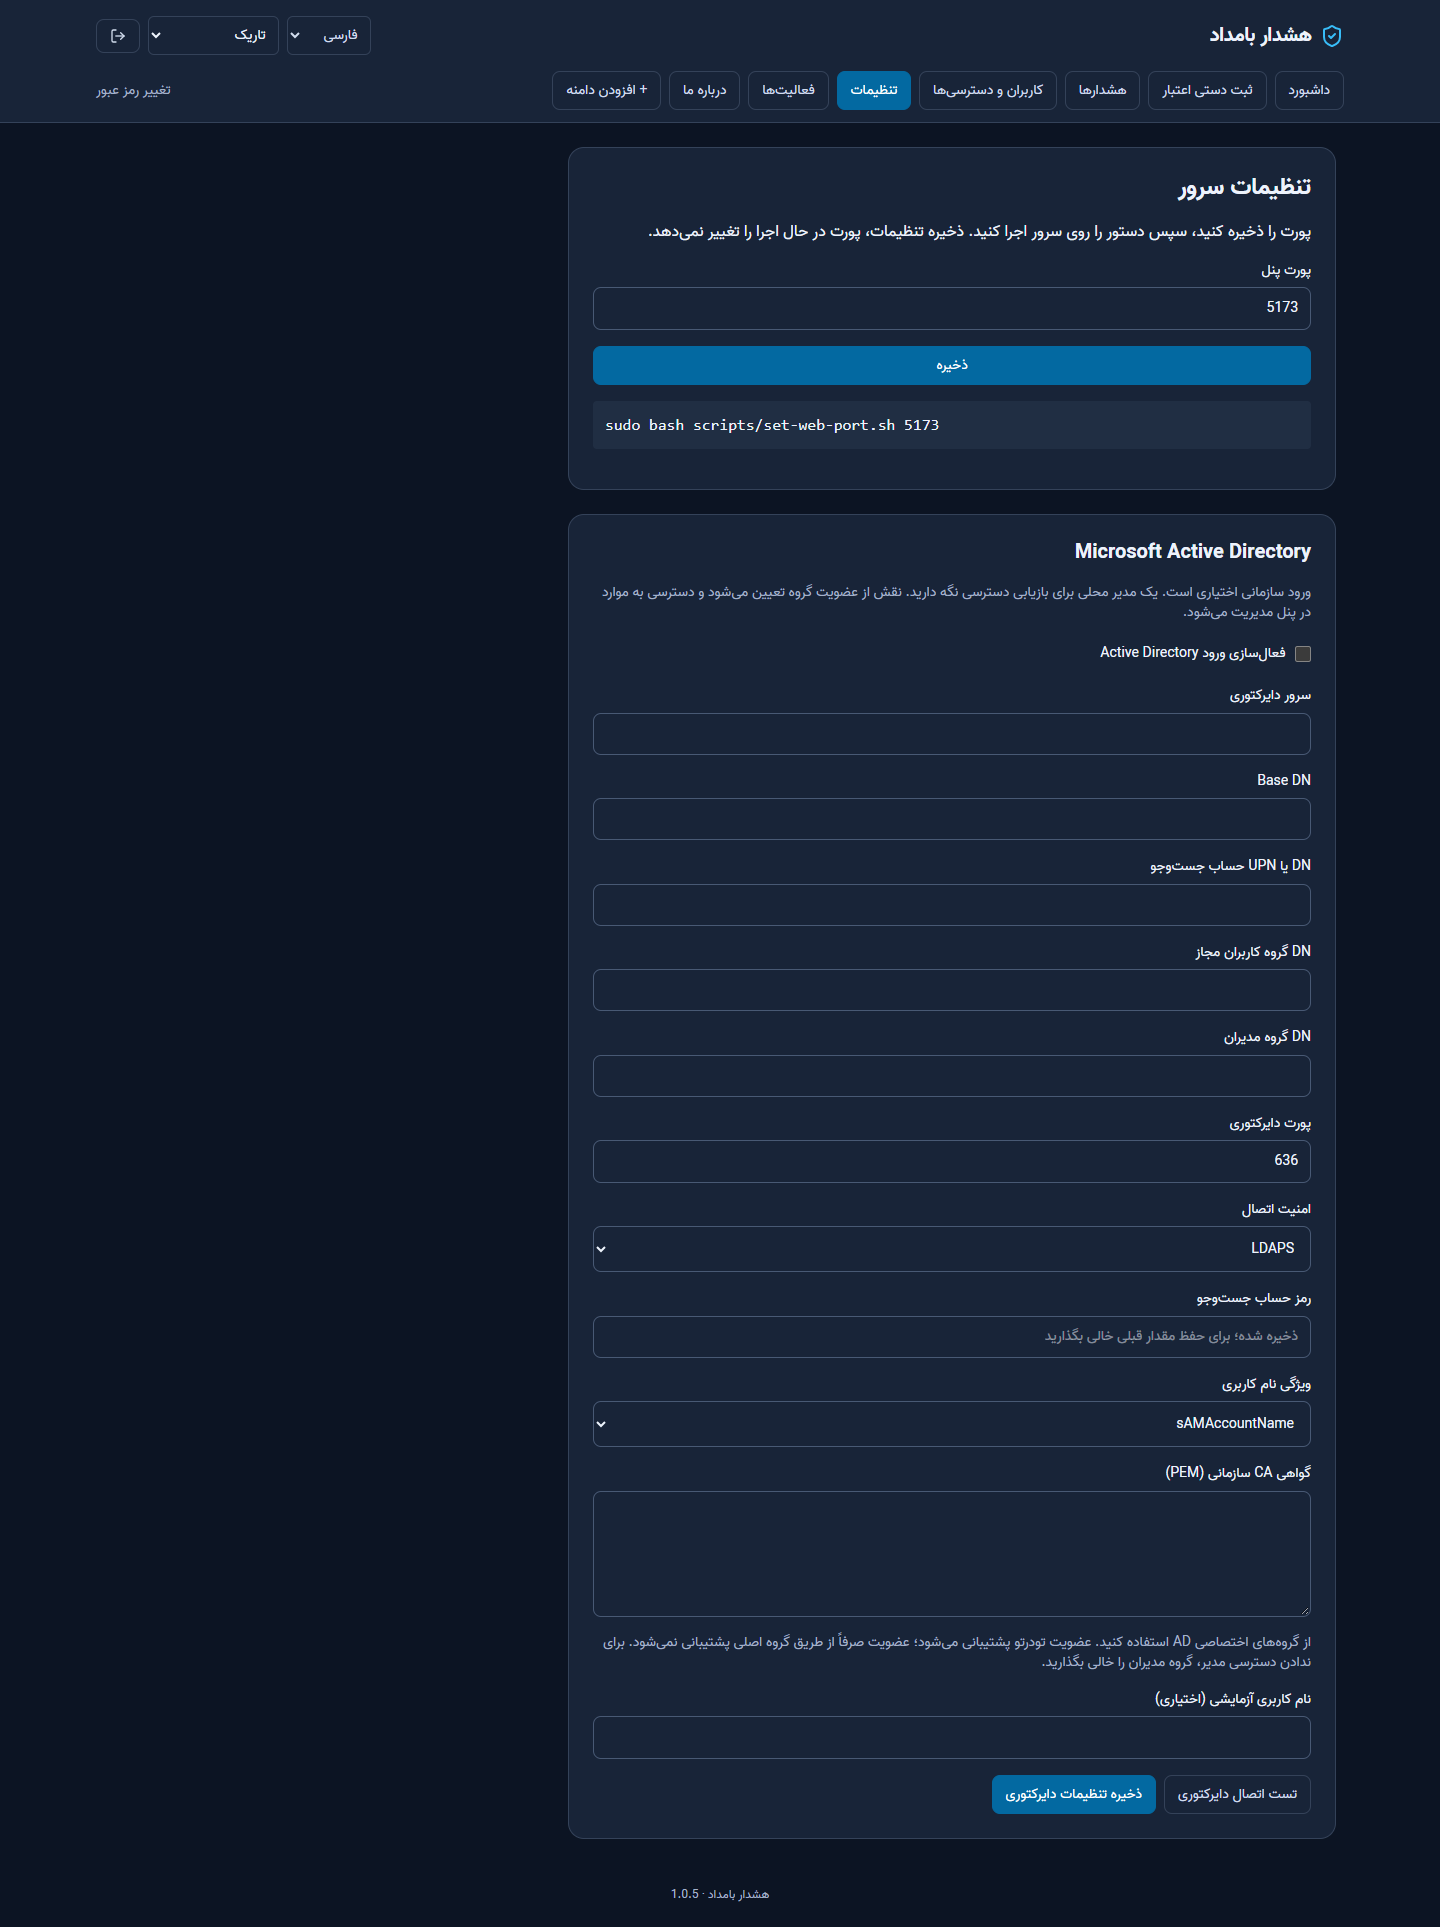
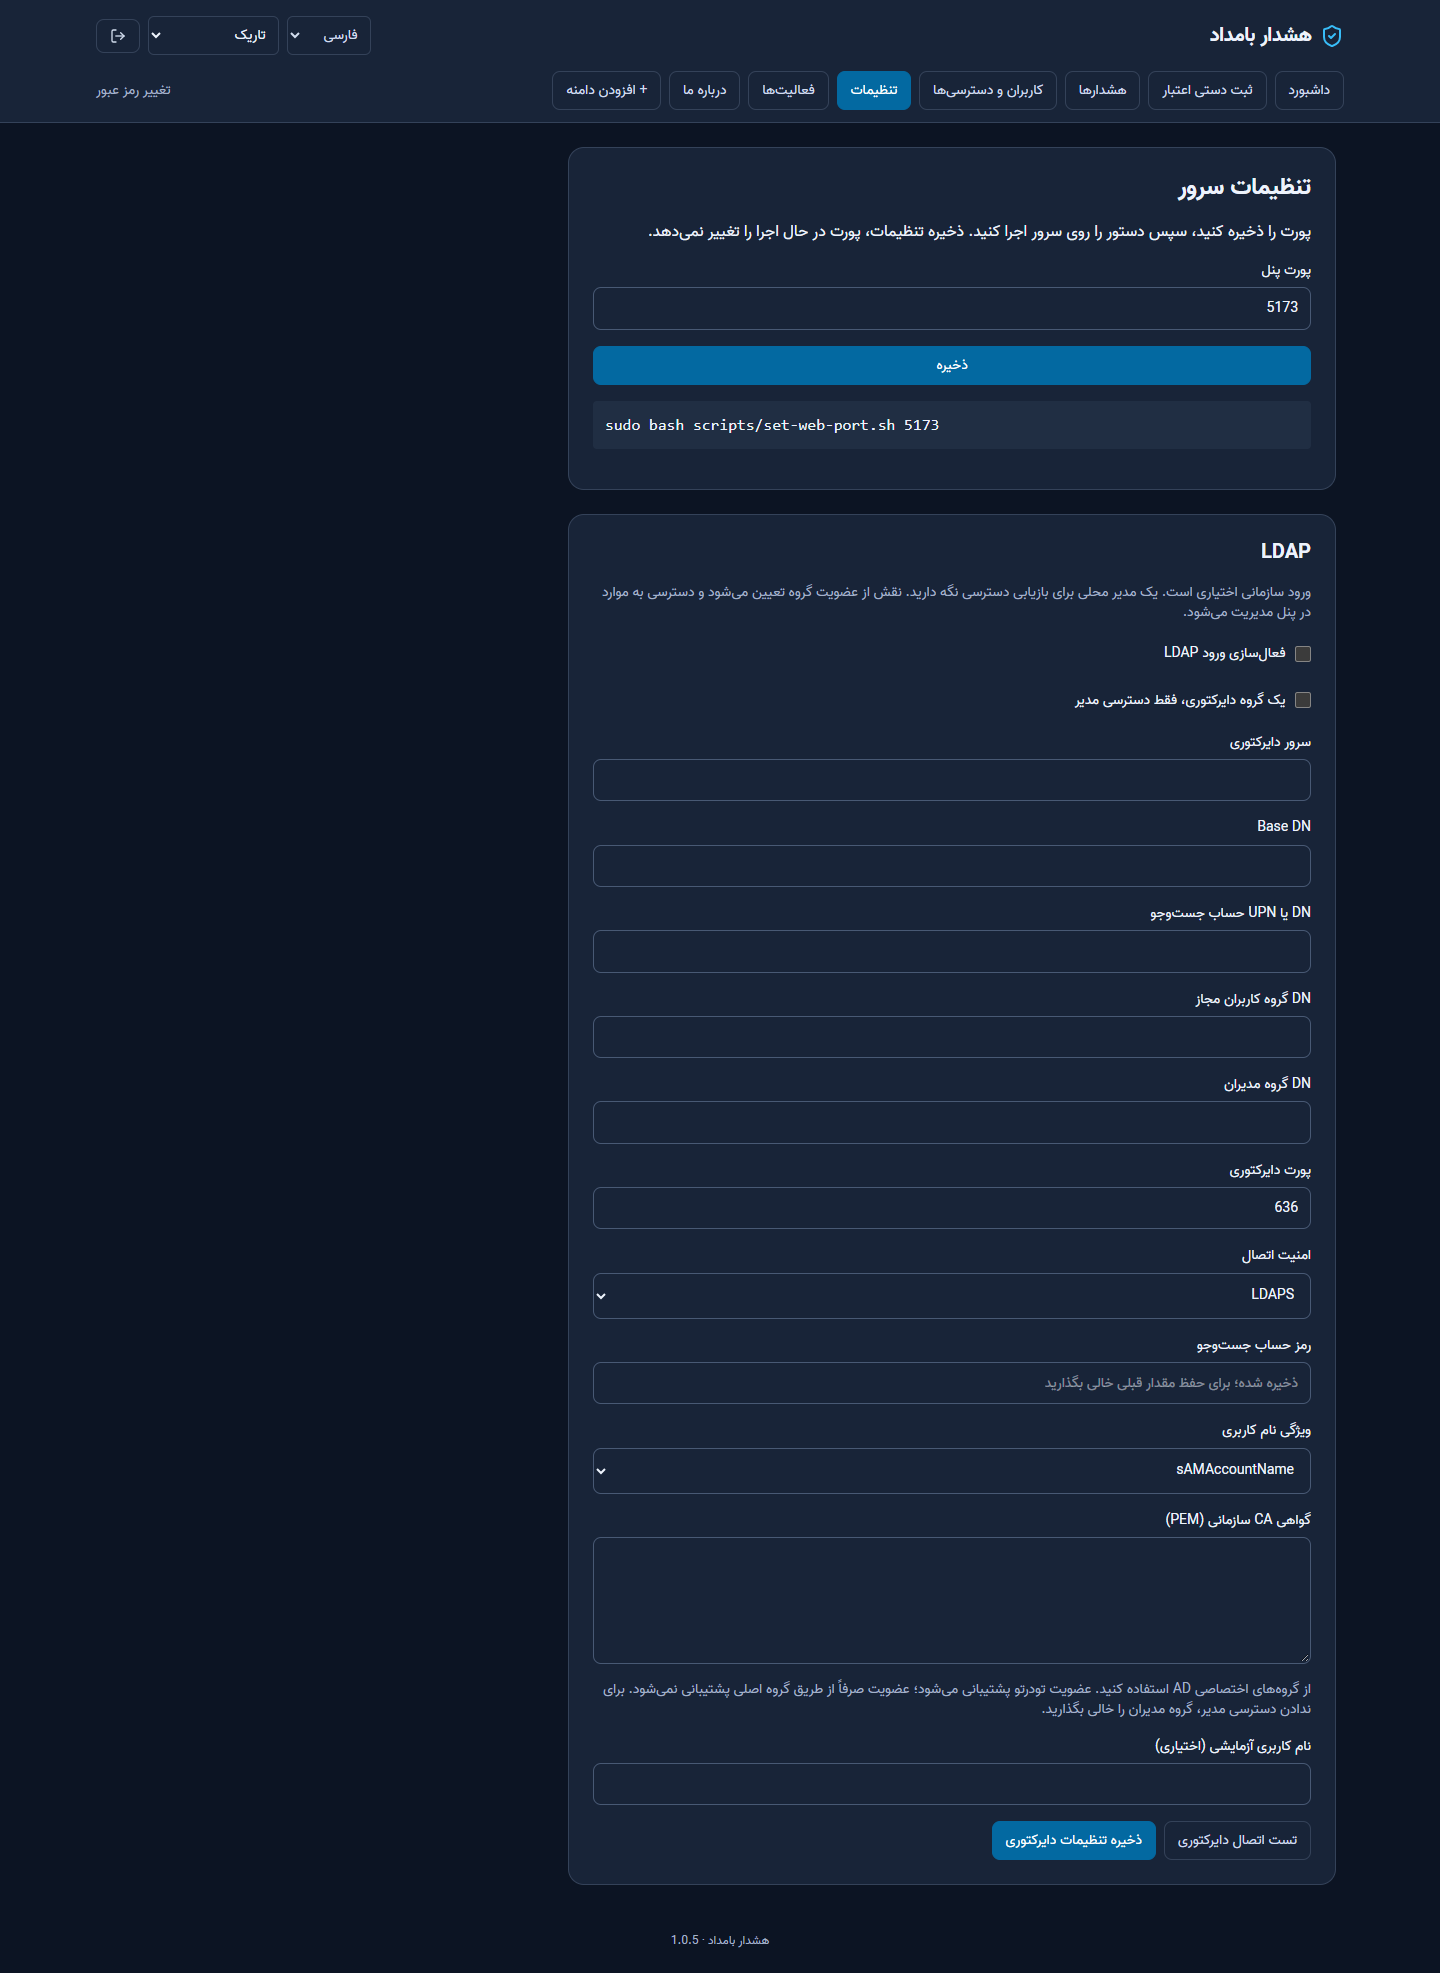
Use LDAP consistently in interface and documentation

diff --git a/packages/web/src/components/LdapSettings.tsx b/packages/web/src/components/LdapSettings.tsx
@@ -68,7 +68,7 @@ export function LdapSettings() {
   }
   return (
     <section className="panel space-y-4">
-      <h2 className="text-xl font-semibold">Microsoft Active Directory</h2>
+      <h2 className="text-xl font-semibold">LDAP</h2>
       <p className="text-sm text-slate-500">
         {t(
           "Directory login is optional. Keep a local administrator for recovery. Group membership controls directory roles; item permissions remain in the panel.",
@@ -91,7 +91,7 @@ export function LdapSettings() {
                 setSettings({ ...settings, enabled: e.target.checked })
               }
             />
-            {t("Enable Active Directory login")}
+            {t("Enable LDAP login")}
           </label>
           <label className="check-label"><input type="checkbox" checked={!!settings.adminOnly} onChange={(e) => setSettings({...settings, adminOnly:e.target.checked})} />{t("One directory group, administrator access only")}</label>
           {settings.adminOnly && <p>{t("Only members of the administrator group can sign in. Every member receives full panel administrator access.")}</p>}

diff --git a/packages/api/src/routes/accounts.ts b/packages/api/src/routes/accounts.ts
@@ -234,7 +234,7 @@ export function createAccountRouter(db: DB) {
       .where(eq(users.id, c.get("actor")!.userId))
       .get();
     if (user?.authSource === "ldap")
-      return c.json({ error: "Manage this password in Active Directory" }, 400);
+      return c.json({ error: "Manage this password in LDAP" }, 400);
     if (
       !user ||
       !(await verifyPassword(input.data.currentPassword, user.passwordHash))
@@ -410,7 +410,7 @@ export function createAccountRouter(db: DB) {
       return c.json(
         {
           error:
-            "Directory roles and passwords are managed in Active Directory",
+            "Directory roles and passwords are managed in LDAP",
         },
         400,
       );

diff --git a/packages/api/src/routes/settings.ts b/packages/api/src/routes/settings.ts
@@ -27,7 +27,7 @@ export function createSettingsRouter(db: DB) {
       const raw = await c.req.json().catch(() => null);
       const parsed = ldapSchema.safeParse(raw?.settings);
       if (!parsed.success)
-        return c.json({ error: "Invalid Active Directory settings" }, 400);
+        return c.json({ error: "Invalid LDAP settings" }, 400);
       try {
         const settings = mergeLdap(db, parsed.data);
         if ((settings.enabled || method === "test") && !completeLdap(settings))

diff --git a/packages/web/e2e-i18n/language.spec.ts b/packages/web/e2e-i18n/language.spec.ts
@@ -726,7 +726,7 @@ test("Jalali calendar picks dates and blocks invalid Esfand days", async ({
     page.getByLabel("Expiry date (Gregorian, UTC)", { exact: true }),
   ).toHaveValue("2026-11-01");
 });
-test("Active Directory login selector and administration form", async ({
+test("LDAP login selector and administration form", async ({
   page,
 }) => {
   await page.goto("/login");

diff --git a/packages/web/src/pages/Login.tsx b/packages/web/src/pages/Login.tsx
@@ -75,7 +75,7 @@ export default function Login() {
                 onChange={(e) => setProvider(e.target.value)}
               >
                 <option value="local">{t("Local account")}</option>
-                <option value="ldap">Microsoft Active Directory</option>
+                <option value="ldap">LDAP</option>
               </select>
             </label>
           )}

diff --git a/packages/api/src/services/ldap.ts b/packages/api/src/services/ldap.ts
@@ -105,7 +105,7 @@ export async function queryDirectory(
   identity?: { username?: string; guid?: string; password?: string },
 ) {
   if (!completeLdap(settings))
-    throw Error("Incomplete Active Directory settings");
+    throw Error("Incomplete LDAP settings");
   const tls = {
     minVersion: "TLSv1.2" as const,
     rejectUnauthorized: true,

diff --git a/packages/web/src/pages/Users.tsx b/packages/web/src/pages/Users.tsx
@@ -170,7 +170,7 @@ export function Users() {
             {editing.authSource === "ldap" && (
               <p>
                 {t(
-                  "Directory roles and passwords are managed in Active Directory",
+                  "Directory roles and passwords are managed in LDAP",
                 )}
               </p>
             )}

diff --git a/packages/api/src/routes/ldap.test.ts b/packages/api/src/routes/ldap.test.ts
@@ -51,7 +51,7 @@ const entry = {
   userAccountControl: "512",
   accountExpires: "0",
 };
-describe("Active Directory integration", () => {
+describe("LDAP integration", () => {
   let store: ReturnType<typeof createInMemoryDb>,
     app: ReturnType<typeof createApp>,
     folder: string,

diff --git a/README.fa.md b/README.fa.md
@@ -202,13 +202,13 @@ sudo docker compose exec --user 10001:10001 api node /app/dist/cli/tokens.js cre
 مجوز اصلی پروژه و انتسابهای متنباز در [LICENSE](LICENSE) حفظ شدهاند.
 
 
-## نسخهٔ ۱.۰.۵: تاریخ شمسی، قرارداد و Active Directory
+## نسخهٔ ۱.۰.۵: تاریخ شمسی، قرارداد و LDAP
 
 در «اعتبارهای دستی»، نوع «قرارداد» را انتخاب و عنوان، شماره قرارداد، طرف قرارداد، مسئول، تاریخ شروع و پایان و یادداشت را ثبت کنید. قراردادها در داشبورد، فیلتر نوع، دسترسی کاربران و سیاستهای هشدار نمایش داده میشوند. تاریخ پایان قرارداد الزامی است.
 
 در زبان فارسی، تاریخ شروع و پایان با تقویم شمسی یا ورود دستی به شکل `۱۴۰۵/۰۸/۱۰` قابل ثبت است. ارقام فارسی، عربی و انگلیسی پذیرفته میشوند؛ روز نامعتبر، از جمله اسفند ۳۰ در سال غیرکبیسه، رد میشود. زبان انگلیسی تقویم میلادی دارد. ذخیرهسازی و API همچنان تاریخ میلادی ISO دارند؛ تغییر زبان تاریخ رکورد را عوض نمیکند.
 
-### راهاندازی Microsoft Active Directory
+### راهاندازی LDAP
 
 ۱. با مدیر محلی وارد «تنظیمات» شوید. LDAP بهصورت پیشفرض خاموش است و ورود محلی باقی میماند.
 ۲. نام DNS کنترلر دامنه مطابق گواهی، Base DN مانند `DC=example,DC=local` و حساب فقطخواندنی جستوجو (Bind DN یا UPN) و رمز آن را وارد کنید.
@@ -216,7 +216,7 @@ sudo docker compose exec --user 10001:10001 api node /app/dist/cli/tokens.js cre
 ۴. ویژگی ورود را sAMAccountName (نام کاربری) یا userPrincipalName (نام کامل مانند user@example.local) انتخاب کنید.
 ۵. DN کامل گروه کاربران و در صورت نیاز گروه مدیران را تعیین کنید. عضویت تودرتو پشتیبانی میشود؛ عضویت صرفاً از طریق primary group کافی نیست. گروه اختصاصی برای پنل بسازید. گروه مدیران اولویت دارد؛ کاربر خارج از هر دو گروه وارد نمیشود.
 ۶. «تست اتصال» را بزنید؛ نام کاربری آزمایشی اختیاری، جستوجو و نقش گروه را هم بررسی میکند. این تست جای آزمایش ورود با رمز خود کاربر را نمیگیرد. سپس تنظیمات را ذخیره و سرویس را فعال کنید.
-۷. در صفحه ورود، Active Directory را انتخاب کنید. پس از اولین ورود، حساب با پیشوند ad: در کاربران ظاهر میشود. مدیر دسترسی ثبت، ویرایش، تست و رکوردها را از پنل میدهد؛ نقش مدیر/کاربر از گروه AD تعیین میشود. رمز کاربر در AD مدیریت میشود و در پنل ذخیره نمیشود.
+۷. در صفحه ورود، LDAP را انتخاب کنید. پس از اولین ورود، حساب با پیشوند ad: در کاربران ظاهر میشود. مدیر دسترسی ثبت، ویرایش، تست و رکوردها را از پنل میدهد؛ نقش مدیر/کاربر از گروه AD تعیین میشود. رمز کاربر در AD مدیریت میشود و در پنل ذخیره نمیشود.
 
 حساب محلی مدیر برای بازیابی دسترسی باقی میماند و آخرین مدیر محلی فعال قابل حذف یا غیرفعالسازی نیست. غیرفعالکردن کاربر از پنل مانع ورود مجدد او میشود. وضعیت AD هنگام درخواستها با فاصله حداکثر پنج دقیقه بازبینی میشود؛ حذف عضویت، تغییر نقش یا شکست بازبینی نشست را باطل میکند. تغییر تنظیمات LDAP نشستهای کاربران AD را باطل میکند.
 

diff --git a/CHANGELOG.md b/CHANGELOG.md
@@ -2,7 +2,7 @@
 
 - تقویم و ورود تاریخ شمسی در فرم فارسی با تبدیل صحیح به تاریخ ISO و اعتبارسنجی کبیسه
 - نوع قرارداد با شماره، طرف قرارداد و تاریخ شروع/پایان؛ یکپارچه با داشبورد، مجوزها و هشدارها
-- ورود Microsoft Active Directory با LDAPS/STARTTLS، گروه کاربران/مدیران، تست اتصال و حفظ مدیر محلی
+- ورود LDAP با LDAPS/STARTTLS، گروه کاربران/مدیران، تست اتصال و حفظ مدیر محلی
 - رمزنگاری رمز حساب جستوجو، عدم ذخیره رمز کاربران AD و بازبینی دورهای دسترسی
 - بخش توسعهدهندگان، راهنمای تنظیمات و تصاویر روشن/تاریک بهروز
 

diff --git a/docs/releases/1.0.5.md b/docs/releases/1.0.5.md
@@ -2,7 +2,7 @@
 
 - تقویم و ورود تاریخ شمسی در فرم فارسی با تبدیل صحیح به تاریخ ISO و اعتبارسنجی کبیسه
 - نوع قرارداد با شماره، طرف قرارداد و تاریخ شروع/پایان؛ یکپارچه با داشبورد، مجوزها و هشدارها
-- ورود Microsoft Active Directory با LDAPS/STARTTLS، گروه کاربران/مدیران، تست اتصال و حفظ مدیر محلی
+- ورود LDAP با LDAPS/STARTTLS، گروه کاربران/مدیران، تست اتصال و حفظ مدیر محلی
 - رمزنگاری رمز حساب جستوجو، عدم ذخیره رمز کاربران AD و بازبینی دورهای دسترسی
 - بخش توسعهدهندگان، راهنمای تنظیمات و تصاویر روشن/تاریک بهروز
 

diff --git a/README.md b/README.md
@@ -139,7 +139,7 @@ Email connections accept 1–50 recipients as an address array or comma/semicolo
 
 New endpoint: `GET /api/notifications/coverage` returns scoped target-key → boolean coverage without connection secrets. `GET /api/notifications/history?status=partial` filters partial deliveries.
 
-## 1.0.5: Jalali dates, contracts and Microsoft Active Directory
+## 1.0.5: Jalali dates, contracts and LDAP
 
 Manual records support contracts with number, counterparty, owner, start/end dates and notes. They participate in dashboard filters, permissions and notification policies. Persian forms accept Jalali dates and Persian/Arabic/ASCII digits with leap-year validation; English forms remain Gregorian. API/storage use ISO Gregorian dates.
 
